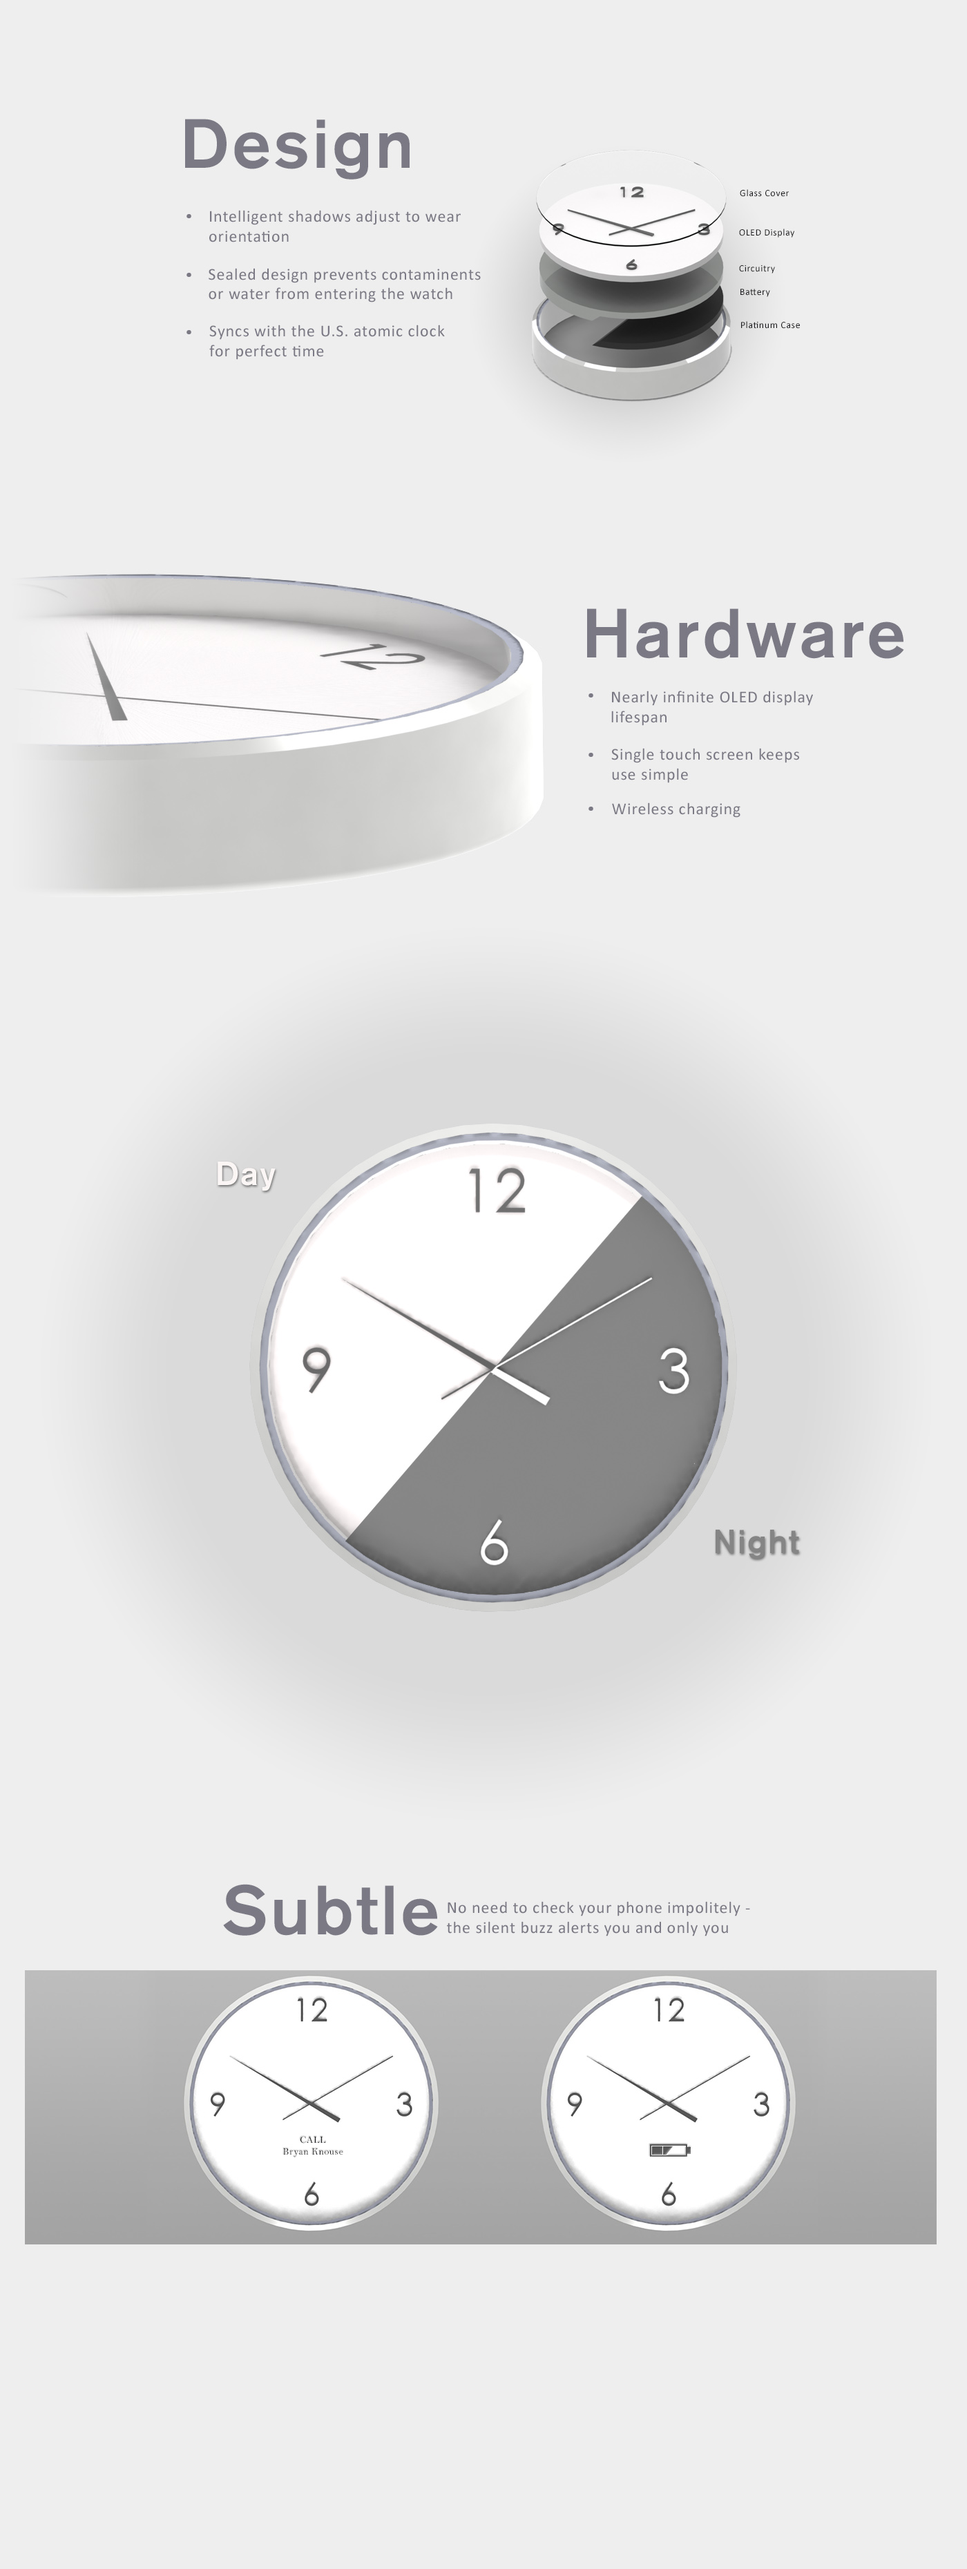
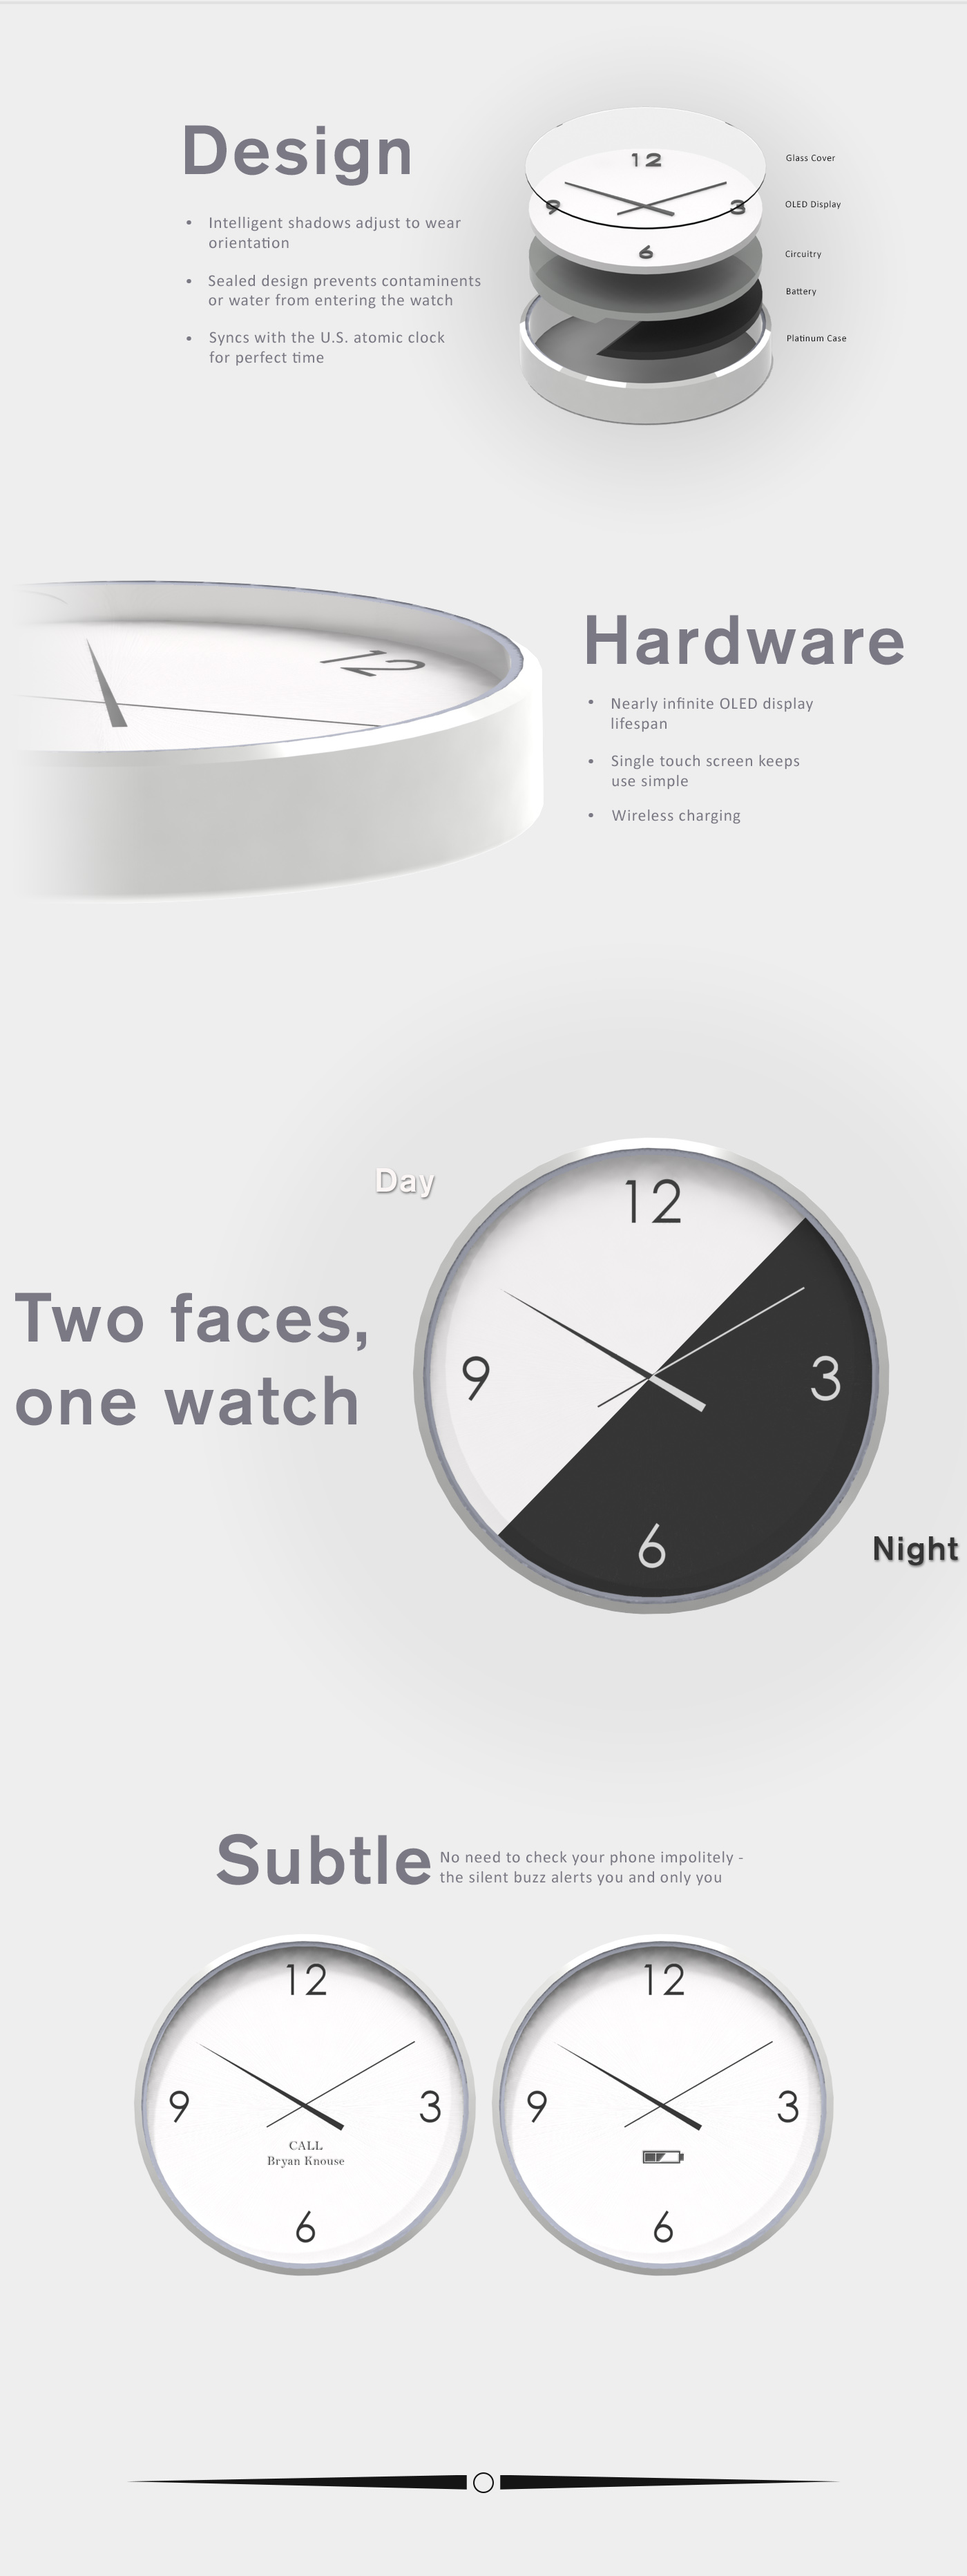
updates to CHA mel EON

diff --git a/app/assets/stylesheets/pages.css.scss b/app/assets/stylesheets/pages.css.scss
@@ -66,7 +66,7 @@
 	background: #eeeeee;
 
 	#Chameleon_info {
-		width: 892px;
+		width: 1400px;
 		margin-left: auto;
 		margin-right: auto;
 	}
